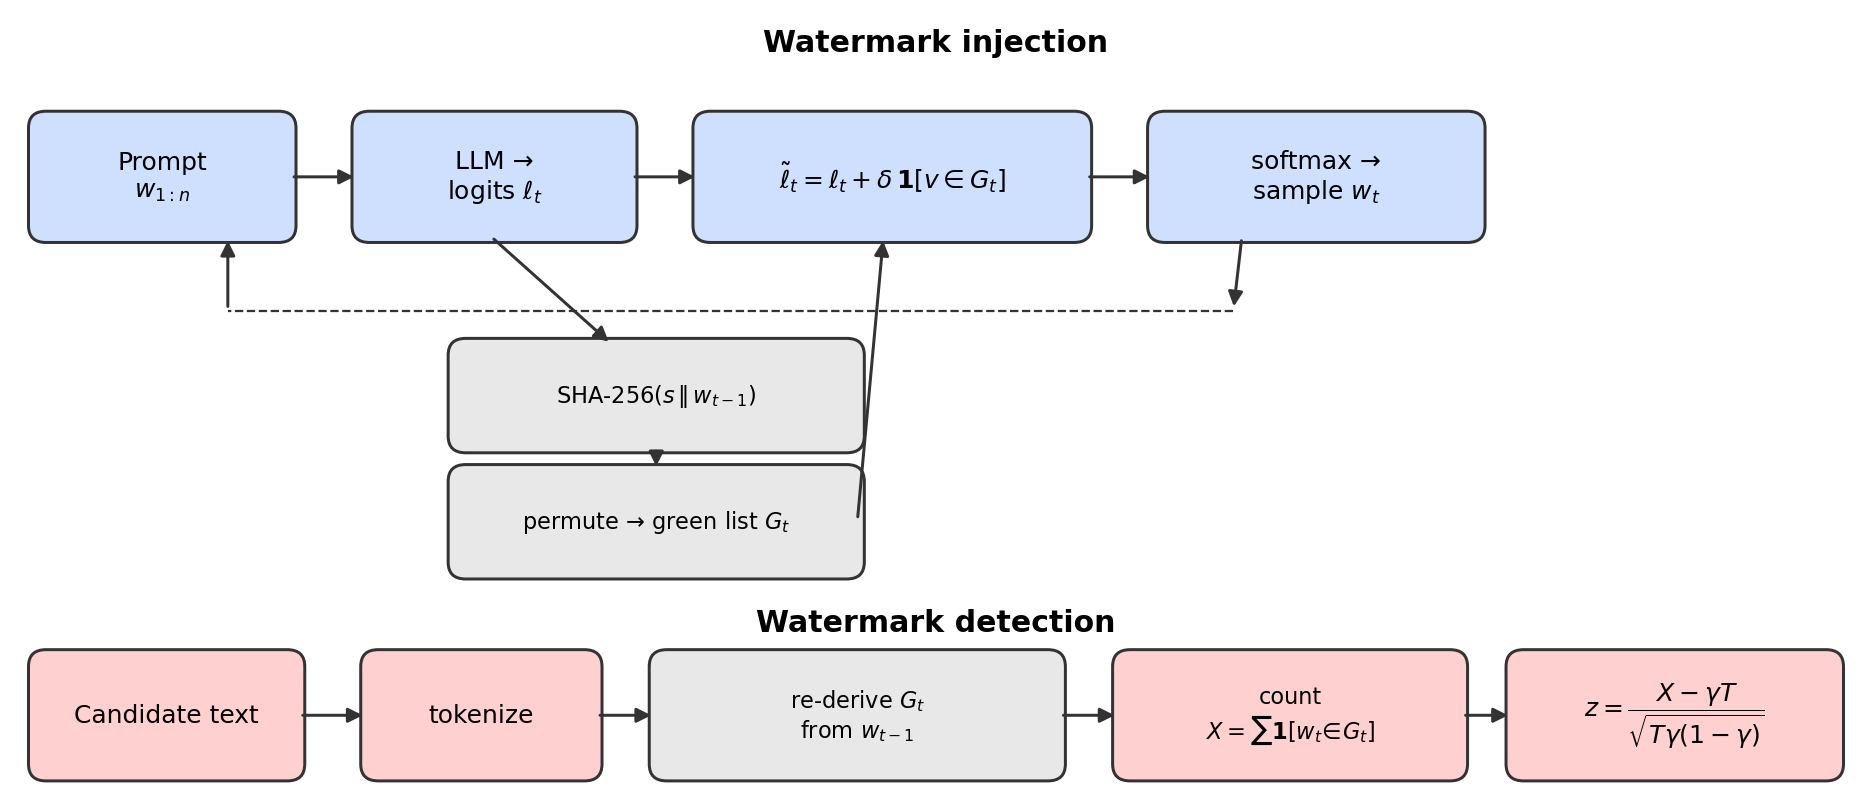
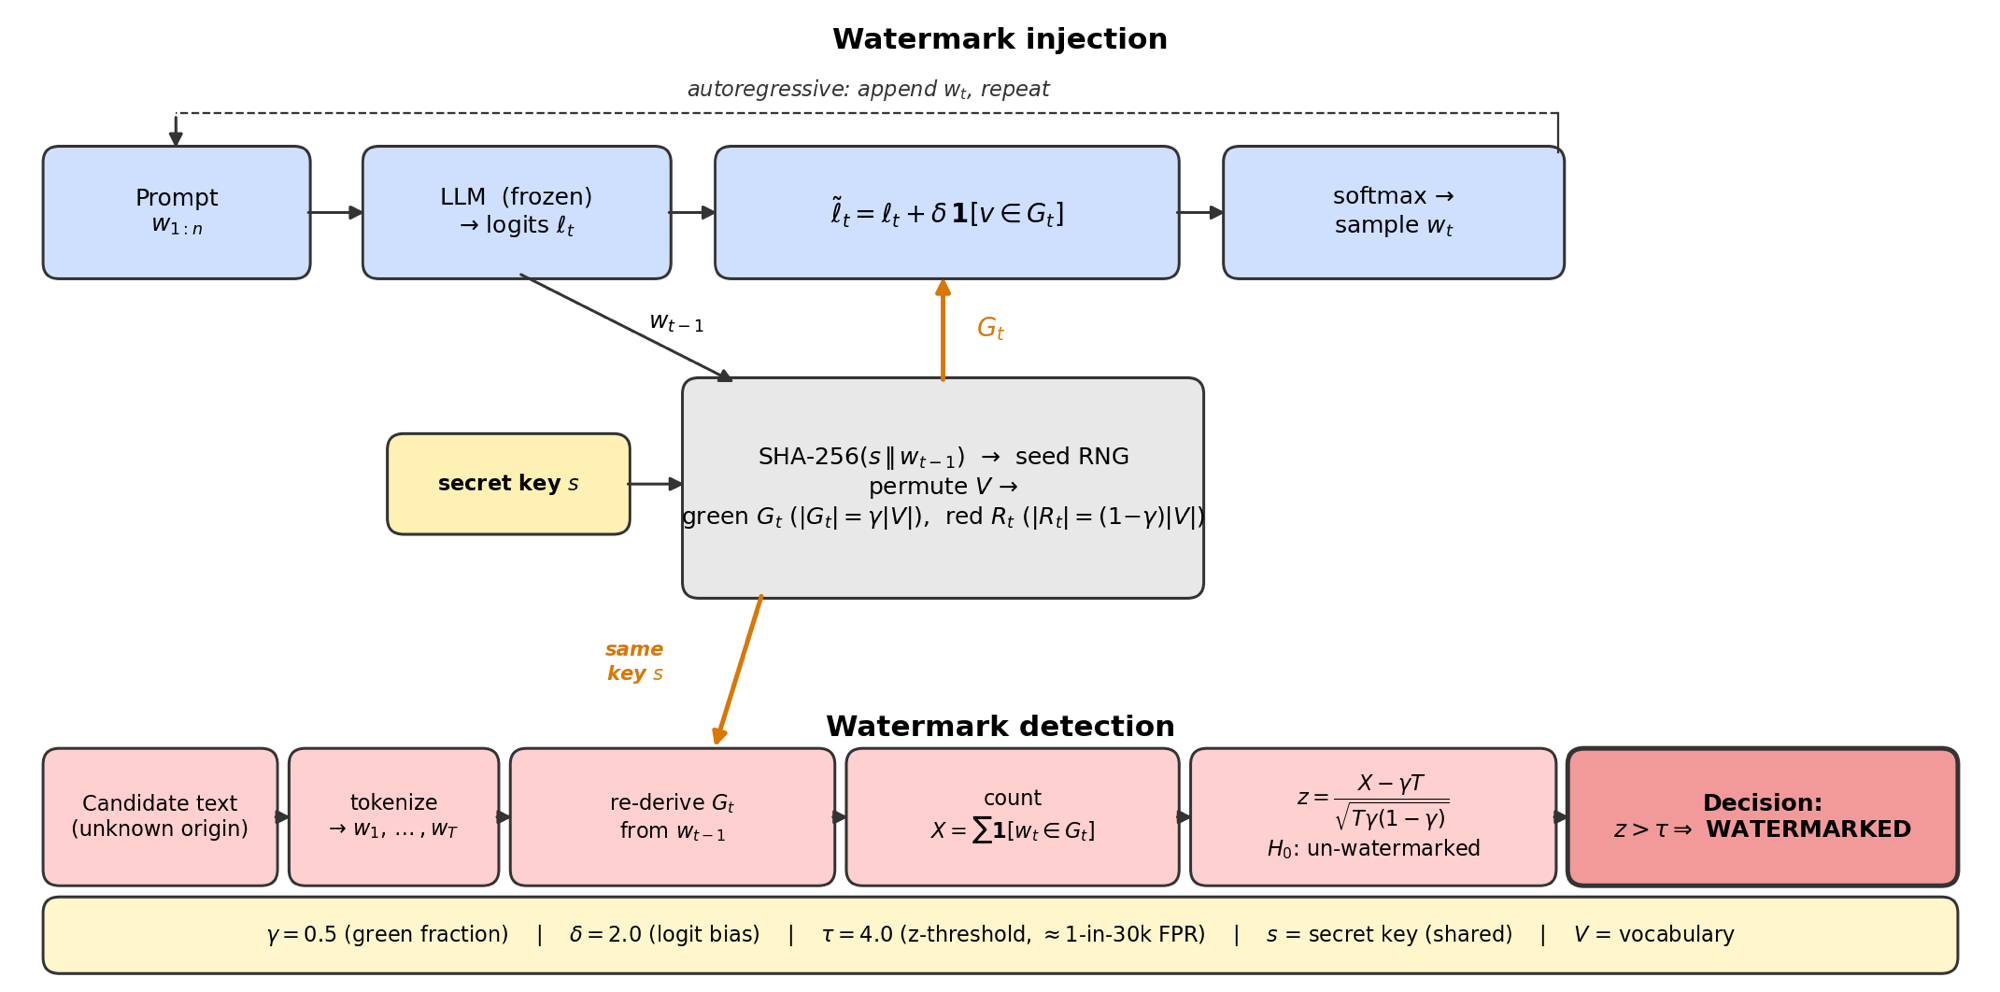
Update method schematic; enable microtype; compress §3.8

diff --git a/docs/main.tex b/docs/main.tex
@@ -23,8 +23,7 @@
 \usepackage{booktabs}
 \usepackage{xcolor}
 \usepackage{hyperref}
-\usepackage{tikz}
-\usetikzlibrary{positioning,arrows.meta,shapes.geometric,fit,calc,backgrounds}
+\usepackage{microtype}
 
 \cvprfinalcopy
 \setcounter{page}{1}
@@ -88,44 +87,7 @@ Figure~\ref{fig:method} summarises the two-sided pipeline. Generation is a singl
 
 \begin{figure*}[t]
 \centering
-\scriptsize
-\begin{tikzpicture}[
-    node distance=4mm,
-    every node/.style={font=\scriptsize},
-    boxA/.style={draw,rounded corners=1pt,fill=blue!8,minimum height=6mm,minimum width=18mm,align=center,inner sep=2pt},
-    boxB/.style={draw,rounded corners=1pt,fill=red!8,minimum height=6mm,minimum width=18mm,align=center,inner sep=2pt},
-    boxH/.style={draw,rounded corners=1pt,fill=gray!10,minimum height=6mm,minimum width=22mm,align=center,inner sep=2pt},
-    arr/.style={-{Latex[length=1.4mm]},thick},
-]
-% TOP panel: injection
-\node[boxA] (prompt)  {Prompt $w_{1{:}n}$};
-\node[boxA,right=10mm of prompt] (llm) {LLM $\to$ logits $\ell_t$};
-\node[boxH,below=5mm of llm] (hash)   {SHA-256$(s\Vert w_{t-1})$};
-\node[boxH,below=4mm of hash] (perm)  {permute $\to$ green list $G_t$};
-\node[boxA,right=10mm of llm] (bias)  {$\tilde\ell_t = \ell_t + \delta\cdot\mathbf{1}[v\in G_t]$};
-\node[boxA,right=8mm of bias]  (sample){softmax $\to$ sample $w_t$};
-\node[above=2mm of llm,font=\bfseries\small] (titleL) {Watermark Injection};
-
-\draw[arr] (prompt) -- (llm);
-\draw[arr] (llm)    -- (bias);
-\draw[arr] (bias)   -- (sample);
-\draw[arr] (llm.south) -- (hash.north);
-\draw[arr] (hash) -- (perm);
-\draw[arr] (perm.east) -| (bias.south);
-\draw[arr,dashed] (sample.south) -- ++(0,-3mm) -| node[pos=0.25,font=\tiny\itshape,above]{$w_{t-1}$ feeds next step} (llm.south east);
-
-% BOTTOM panel: detection
-\node[boxB,below=22mm of perm,xshift=-3mm] (text)  {Candidate text};
-\node[boxB,right=10mm of text] (tok)              {tokenize};
-\node[boxH,right=10mm of tok]  (rederive)         {re-derive $G_t$ from $w_{t-1}$};
-\node[boxB,right=10mm of rederive] (count)        {count $X{=}\sum\mathbf{1}[w_t\!\in\!G_t]$};
-\node[boxB,right=8mm of count] (ztest)            {$z=\tfrac{X-\gamma T}{\sqrt{T\gamma(1-\gamma)}}$};
-\node[above=2mm of tok,font=\bfseries\small] (titleR) {Watermark Detection};
-\draw[arr] (text)     -- (tok);
-\draw[arr] (tok)      -- (rederive);
-\draw[arr] (rederive) -- (count);
-\draw[arr] (count)    -- (ztest);
-\end{tikzpicture}
+\includegraphics[width=\linewidth]{figures/fig1_method.png}
 \caption{Two-sided pipeline of the green-list logit-bias watermark. \textbf{Top:} at each decoding step the previous token seeds a SHA-256 hash that deterministically partitions the vocabulary; a fixed bias $\delta$ is added to green-list logits before softmax sampling. \textbf{Bottom:} detection re-derives the same partition from the candidate text and applies a one-sided $z$-test on the count of green tokens. Detection requires only the secret seed and the text, not access to the model.}
 \label{fig:method}
 \end{figure*}
@@ -207,7 +169,7 @@ The same code path, with only the model identifier changed, was applied to LLaMA
 
 \subsection{Failure analysis: Gemma 3 multimodal loader}
 \label{sec:gemma-failure}
-Our proposal targeted Gemma~3 4B as the second model. In the current public HuggingFace \texttt{transformers} (4.45+), Gemma~3 is loaded as \texttt{Gemma3ForConditionalGeneration}, a vision/language class that expects image inputs. Text-only generation produces NaN logits at the first token, which propagate into a CUDA assert from \texttt{torch.multinomial}. We isolated the failure in three steps: (i)~confirmed that exactly the same code path runs cleanly on Gemma~2 and LLaMA, ruling out a watermark bug; (ii)~verified that the NaN appears \emph{before} the logit processor is called, ruling out the green-list cap; (iii)~traced it to the multimodal loader's expectation of paired image inputs. Resolving this would have required either downgrading \texttt{transformers} to a pre-multimodal release with uncertain compatibility, or constructing dummy image tensors. Both options fall outside the scope of this paper. We substituted Gemma~2 9B (a text-only loader, distinct from LLaMA's tokeniser) and documented the failure here so that future replicators can avoid the same dead end. This is a load-time tooling issue, not a watermark issue.
+Our proposal targeted Gemma~3 4B, but the public HuggingFace \texttt{transformers} loader (4.45+) instantiates Gemma~3 as \texttt{Gemma3ForConditionalGeneration}, a vision/language class that expects paired image inputs and emits NaN logits during text-only generation. We confirmed the NaN appears \emph{before} the logit processor is called and the same code path runs cleanly on Gemma~2 and LLaMA, so the failure is upstream of our watermark. We substituted Gemma~2 9B, whose text-only loader runs without modification.
 
 %-----------------------------------------------------------------------
 \section{Conclusion}